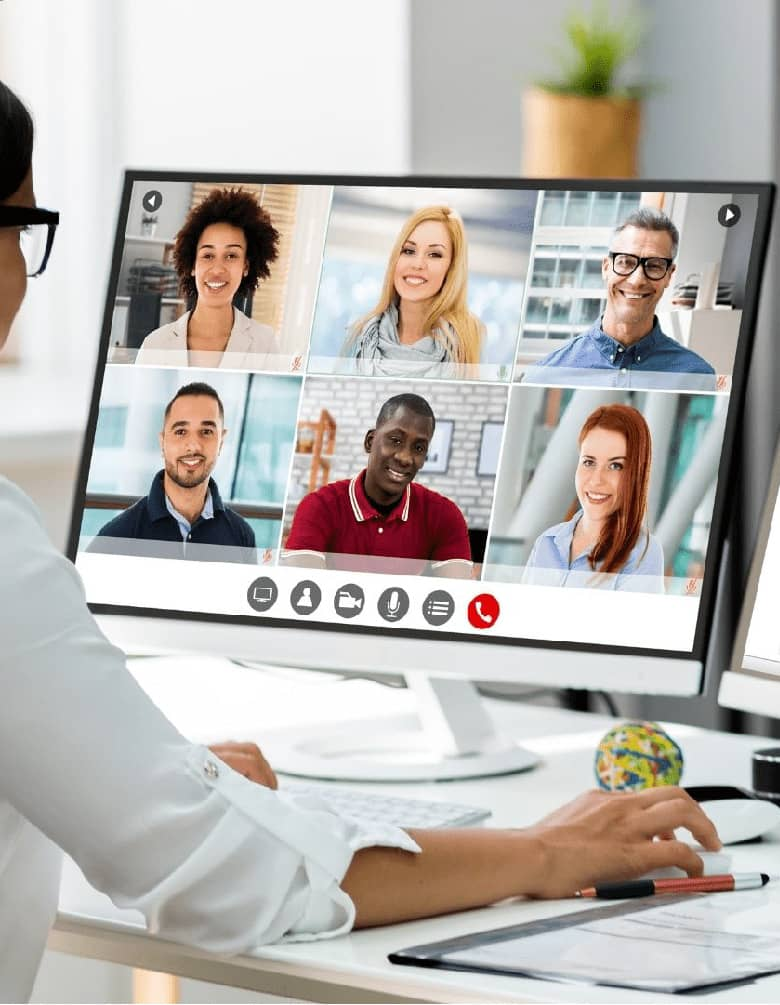
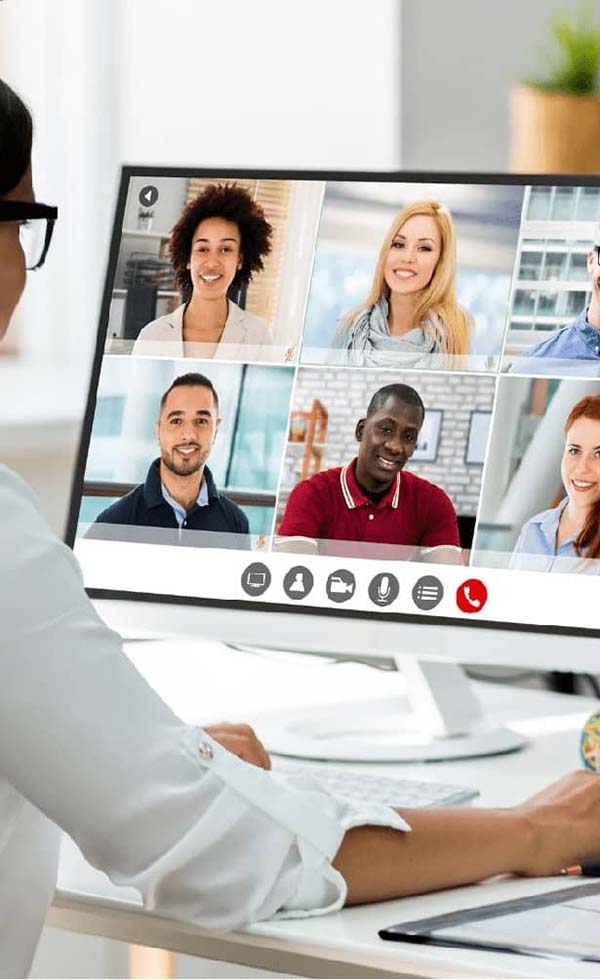
Fix image alignment on talent sourcing page

diff --git a/pages/talent.html b/pages/talent.html
@@ -72,7 +72,7 @@ permalink: /talent-sourcing/
 
   <section id="section-04" class="section">
     <div class="grid-container">
-      <div class="grid-x grid-padding-x align-middle reverse">
+      <div class="grid-x grid-padding-x reverse">
         <div class="cell medium-6 small-order-2 medium-order-2 small-margin-bottom-2">
           <div class="section-content">
             <h2 class="u-text-medium">Improve Your Hiring Process</h2>
@@ -95,7 +95,7 @@ permalink: /talent-sourcing/
 
   <section id="section-06" class="section texture--above texture--below">
     <div class="grid-container">
-      <div class="grid-x grid-padding-x align-middle">
+      <div class="grid-x grid-padding-x">
         <div class="cell medium-6 small-margin-bottom-2">
           <div class="section-content">
             <h2 class="margin-bottom-1 u-text-medium">Secure a Full Funnel of Applicants</h2>
